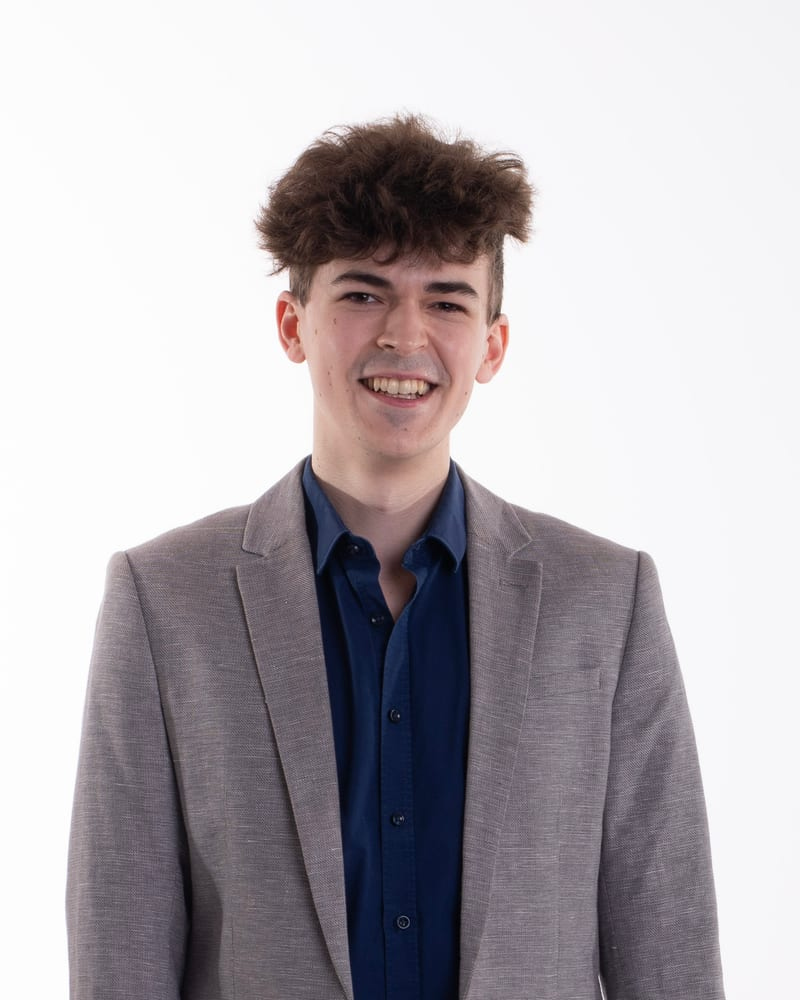
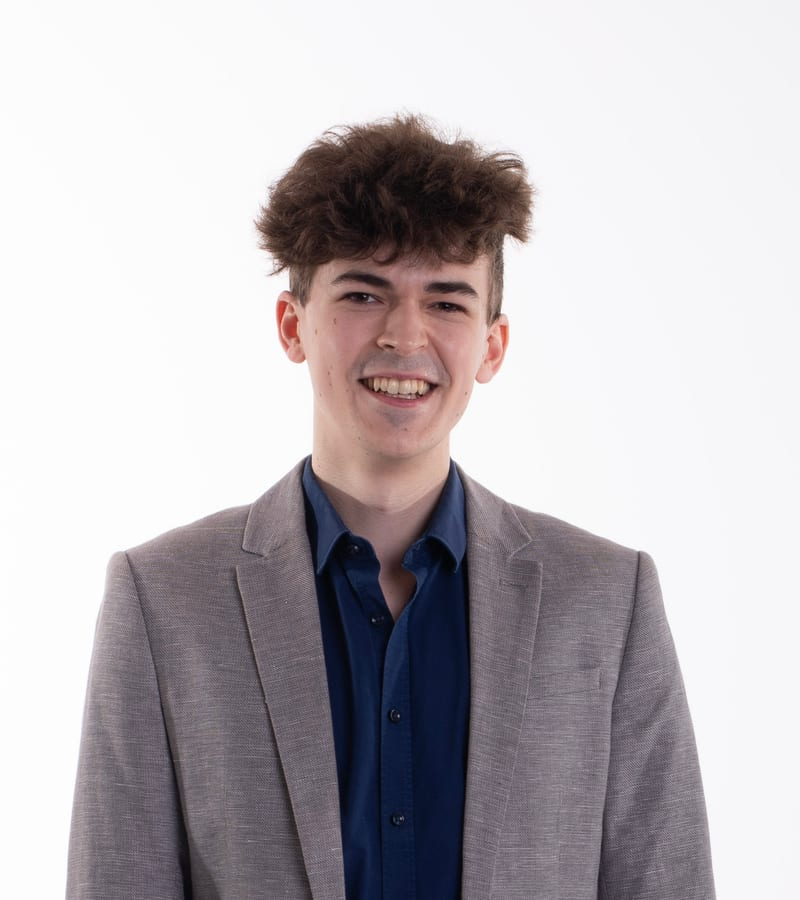
main - Fotka: těsnější ořez; patička: produktový text + slogan „Celý rok, ne jen v březnu."
Test výřezu pozadí (rembg): halo kolem vlasů, na dark režimu nalepené —
ponechána rámečková fotka. Patička už nezní jako hobby projekt pro sebe:
produkt-first popis + zavedená brandová linka z hero jako slogan.

Changed region(s): [[0.0625, 0.0933, 0.9062, 1.0], [0.5312, 0.7156, 0.625, 1.0], [0.0625, 0.9644, 0.0938, 1.0]]

diff --git a/apps/web/components/marketing-page.tsx b/apps/web/components/marketing-page.tsx
@@ -98,17 +98,21 @@ export function MarketingFooter() {
         <div className="flex flex-col gap-8 md:flex-row md:items-start md:justify-between">
           <div className="max-w-md space-y-3">
             <Logo className="text-base text-inkoust" />
+            <p className="font-display font-semibold text-inkoust">
+              Celý rok, ne jen v březnu.
+            </p>
             <p>
-              Danero je osobní projekt{' '}
+              Danero hlídá českým investorům daně z investic — limity, časové testy
+              i podklady k přiznání. Staví ho{' '}
               <a
                 href="https://jandunder.dev"
                 className="font-medium hover:text-inkoust"
                 target="_blank"
                 rel="noreferrer"
               >
-                Jana Dundera
-              </a>{' '}
-              — vývojáře, který si přes něj hlídá vlastní daně z investic.
+                Jan Dunder
+              </a>
+              , který ho sám denně používá.
             </p>
           </div>
           <div className="flex gap-16">

diff --git a/apps/web/app/page.tsx b/apps/web/app/page.tsx
@@ -750,7 +750,7 @@ export default function LandingPage() {
                 src="/jan.jpg"
                 alt="Jan Dunder — autor Danera"
                 width={800}
-                height={1000}
+                height={900}
                 sizes="(min-width: 1024px) 320px, 224px"
                 className="rotate-1 rounded-lg border border-linka shadow-lg shadow-inkoust/10"
               />
